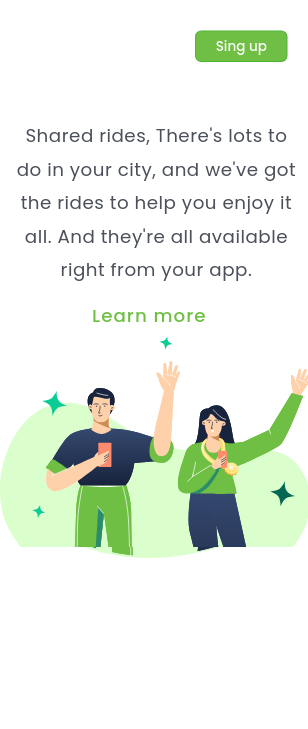
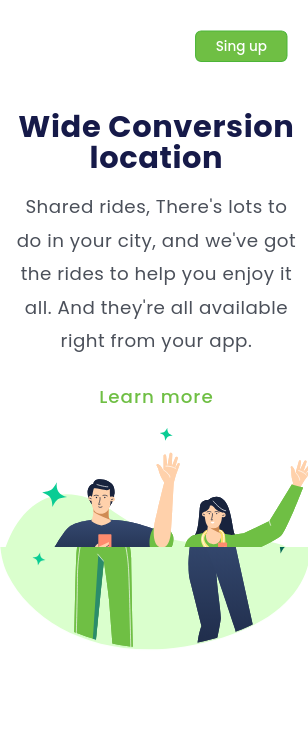
Fix Heading on page

diff --git a/assets/css/style.css b/assets/css/style.css
@@ -46,13 +46,15 @@ section{
     width: 595.18px;
 }
 h1{
-    width: 582px;
+    top: 200px;
+    width: 300px;
     height: 164px;
     font-weight: 700;
     font-size: 62px;
     line-height: 82px;
     letter-spacing: 0.6 px;
     color: #161A49;
+    
 }
 p{
     width: 493px;
@@ -95,11 +97,13 @@ p{
     }
     section{
         bottom: 600px;
+        right: 70px;
+        text-align: center;
     }
     .main-image{
         width: 312px;
         align-items: center;
-        top: 90px
+        top: 180px;
     }
     h1{
         width: 278px;
@@ -107,11 +111,12 @@ p{
         font-weight: 700px;
         font-size: 30px;
         line-height: 30px;
-        text-align: center;
         letter-spacing: 0.6px;
+        /* top: 180px;
+        right: 70px; */
     }
     p{
-        top: 100px;
+        top: 170px;
         width: 278px;
         height: 165px;
         font-weight: 400;
@@ -120,8 +125,7 @@ p{
         line-height: 33px;
         letter-spacing: 0.5px;
         color: #4B505A;
-        text-align: center;
-        right: 70px;
+        
     }
     .button-main{
         font-style: normal;
@@ -130,6 +134,6 @@ p{
         line-height: 27px;
         height: 27px;
         width: 124px;
-        top: 60px;
+        top: 140px;
     }
 }
